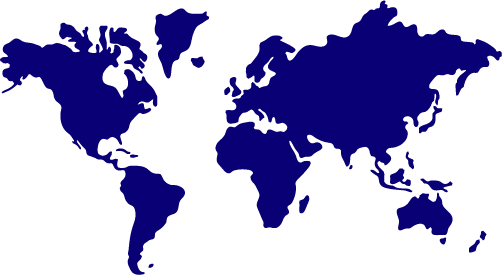
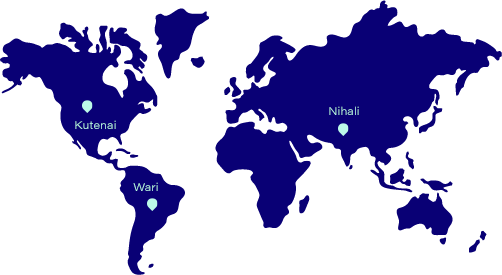
v10 updates

diff --git a/index.html b/index.html
@@ -61,7 +61,7 @@
         
         <div id="nav_bar" class="navbar-fixed-top"><nav>
         <ul>
-            <li><a href="#section1">home</a></li>
+            <li id="homeicon"><a href="#section1"><img class="home" src="img/home.png" href="#section1"/></a></li>
             <li><a href="#section2">about</a></li>
             <li><a href="#section3">features</a></li>
             <li><a href="#section4">users</a></li>
@@ -73,12 +73,12 @@
         
         <div id="mobile_nav_bar"><nav>
         <ul>
-            <li><a href="#section2">about</a></li>
-            <li><a href="#section3">features</a></li>
-            <li><a href="#section4">users</a></li>
-            <li><a href="#section5">download</a></li>
-            <li><a href="#section6">mission</a></li>
-            <li><a href="#section7">team</a></li>
+            <li class="mobile-link"><a href="#section2">about</a></li>
+            <li class="mobile-link"><a href="#section3">features</a></li>
+            <li class="mobile-link"><a href="#section4">users</a></li>
+            <li class="mobile-link"><a href="#section5">download</a></li>
+            <li class="mobile-link"><a href="#section6">mission</a></li>
+            <li class="mobile-link"><a href="#section7">team</a></li>
             </ul></nav>
             </div>
         
@@ -89,11 +89,12 @@
                <img class="logo" src="img/logo-withtagline.png"/>
                 <p>&nbsp;</p>
                 <h3 class="tagline">The future of self-teaching AI meets the history of culture.</h3> 
+            <div><a href="#section1"><img class="back-top" src="img/back-to-top.png"></a></div>
         </div>
         <div><img class="mockup1" src="img/mockup.png" alt=""/></div>
         <div id="content">
         <div id="section2">
-            <div><img class="timeline" src="img/website-timeline.png" alt=""/></div>
+            <div><img class="timeline" src="img/web-timeline.png" alt=""/></div>
             <div id="section2text">
             <h1>about</h1><br>
             <h3 class="about-tagline">Learning, teaching, and preserving,<br>all found in one smart program.</h3>
@@ -108,6 +109,7 @@
         </div>
         <div id="section3">
             <div><img class="mockup2" src="img/mockup-2.png" alt=""/></div>
+            <div><img class="mockup2flip" src="img/mockup-2-flip.png" alth=""/></div>
             <div id="section3text">
             <h1>features</h1><br>
                 <!-- I don't think the features paragraphs as they are normally are too long for the mobile version, I think we can just keep them the same instead of shortening them. If you disagree feel free to edit!! -->
@@ -117,22 +119,31 @@
             <div><img class="mockup1-mobile" src="img/mockup.png" alt=""/></div>
         </div>
         <div id="section4">
-            <div><img class="map1" src="img/map-right.png" alt=""/></div>
+            <div><img class="map1" src="img/map-right.png" alt=""/>
+            <div class="location-hover"><img class="location1" src="img/location.png">
+                <span class="location-h-image"><img class="nihali-hover" src="img/nihali-hover.png"></span>
+            </div>
+            </div>
             <div id="section4textleft">
             <h1>users</h1><br>
+            <img class="gautum" src="img/gautum.png">
             <p id="users1">Gautam is a native speaker of Nihali, along with only 2,000 others in central India. At seventy years old, he’s watched the number of Nihali speakers slowly dwindle over the course of his lifetime and worries that his tribe will soon lose the ability to pass on the legacy of their history through written texts and documentation. While also fluent in Hindi, Gautam knows that teaching a language is outside the scope of his skills and instead searches for someone to help prolong the life of Nihali culture. He finds Numan through his granddaughter, who shows him how to talk into her smartphone in Nihali and help the AI translate the words into Hindi. Every other day for the next year, Gautam spends twenty minutes having a conversation with Numan in Nihali and Hindi, confirming spelling and pronunciation as he goes, until the app notifies him that it has learned enough Nihali to send the language to its database and teach it to others who have the app. Now Gautam knows that his native language is catalogued somewhere and will not die out, even if the remaining native speakers are unable to teach Nihali to new generations.</p>
             <p id="users2">Gautam is a native speaker of Nihali, along with only 2,000 others in central India. At seventy years old, he’s watched the number of Nihali speakers slowly dwindle over the course of his lifetime, but knows that teaching a language is outside the scope of his skills. Every other day for the next year, Gautam spends twenty minutes having a conversation with Numan in Nihali and Hindi, confirming spelling and pronunciation as he goes, until the app notifies him that it has learned enough Nihali to send the language to its database and teach it to others who have the app. Now Gautam knows that his native language is catalogued somewhere and will not die out, even if the remaining native speakers are unable to teach Nihali to new generations.</p>
             </div>
             <div id="section4textright">
             <p>&nbsp;</p>
+            <img class="charlotte" src="img/charlotte.png">
             <p id="users1"> Charlotte is a fifty year old linguistics professor who teaches a class on moribund languages at the University of Oxford. During her career, she has become fascinated with Amazonian dialects and learns of an endangered language called Wari, spoken by around 3,000 people in the Rondonian region of Brazil, that she is interested in learning and sharing with her students. Although most of the Wari people also speak Portuguese, there are very few documents to aid in learning the language and Charlotte thinks she’s reached a dead end. However, one of her students introduces her to Numan, which recently learned the language by conversing with one of the native speakers in Wari and Portuguese to translate it into English. After downloading the app, Charlotte is able to learn and share an example of a moribund Amazonian language with her class.</p>
             <div><img class="maps-mobile" src="img/maps-mobile.png"></div>
             <p id="users2"> Charlotte is a fifty year old linguistics professor who teaches a class on moribund languages at the University of Oxford. She learns of an endangered language called Wari, spoken by around 3,000 people in the Rondonian region of Brazil, that she is interested in learning and sharing with her students. Although most of the Wari people also speak Portuguese, there are very few documents to aid in learning the language and Charlotte thinks she’s reached a dead end. However, Numan recently learned the language by conversing with one of the native speakers, and Charlotte is able to learn Wari and share an example of a moribund Amazonian language with her class.</p>
             <p>&nbsp;</p>
+            <img class="daniel" src="img/daniel.png">
             <p id="users1">Daniel is a thirty year old descendant of the Kutenai people of Montana and British Columbia, and the grandson of one of twelve people who can still speak the native language. His grandmother is an amazing storyteller, but most of her culture’s myths are only understandable in the Kutenai language and are therefore inaccessible to Daniel. For years he’s been trying to convince his grandmother to teach him the language so that he can feel closer to his own family and the history of his ancestors, but although she herself is fluent in both English and Kutenai, she doesn’t know how to teach more than a few vocabulary words. With Numan, Daniel is able to have his grandmother speak into her laptop and have conversations with the self-teaching AI that powers the app. After six months Numan has listened to enough Kutenai and understands the syntax and vocabulary, and is ready to teach Daniel.</p>
             <p id="users2">Daniel is a thirty year old descendant of the Kutenai people of Montana and British Columbia, and the grandson of one of twelve people who can still speak the native language. His grandmother is an amazing storyteller, but most of her culture’s myths are only understandable in the Kutenai language and are therefore inaccessible to Daniel. Although she is fluent in both English and Kutenai, she doesn’t know how to teach more than a few vocabulary words. With Numan, Daniel is able to have his grandmother speak into her laptop and have conversations with the self-teaching AI that powers the app. After six months Numan has listened to enough Kutenai and understands the syntax and vocabulary, and is ready to teach Daniel.</p>
             </div>
-            <div><img class="map2" src="img/map-left.png" alt=""/></div>
+            <div><img class="location2" src="img/location.png">
+            <img class="location3" src="img/location.png">
+            <img class="map2" src="img/map-left.png" alt=""/></div>
         </div>
         <div id="section5">
             <div id="section5text">

diff --git a/style.css b/style.css
@@ -24,6 +24,12 @@ body, div {
     }
 }
 
+.home {
+    display: inline;
+    width: 2.3%; 
+    justify-self: center; 
+}
+
 #nav_bar {
     position: fixed;
     width: 100%;
@@ -40,8 +46,9 @@ body, div {
 #mobile_nav_bar {
     width: 100%;
     position: absolute;
-    top: 250px;
+    top: 20px;
     left: 50px;
+    z-index: 11;
 }
 
 @media screen and (min-width: 501px) {
@@ -66,6 +73,7 @@ nav {
 .navbar-fixed-top.scrolled .nav-link {
   color:#555;
 }
+
 
 /*
 #divToShowHide {
@@ -95,7 +103,8 @@ ul {
     margin: 0;
     padding: 0;
     height: 50px;
-    padding-top: 40px;
+    padding-top: 30px;
+    padding-bottom: 15px;
 }
 
 @media screen and (max-width: 500px) {
@@ -116,14 +125,21 @@ li {
     letter-spacing: 1px;
 }
 
+#homeicon a:hover {
+    text-decoration: none;
+    border: none;
+}
+
+
 @media screen and (max-width: 500px) {
     li {
-        padding-bottom: 25px;
+        padding-bottom: 55px;
+        margin-top: 10px;
     }
 }
 
 @media screen and (max-width: 500px) {
-    li a:hover {
+    .mobile-link a:hover {
         color: navy;
         text-decoration: none;
         border: none;
@@ -144,7 +160,7 @@ li a:hover {
 }
 
 h3 {
-    color: darkblue;
+    color: lightseagreen;
     margin: 0;
     padding: 0;
     font-family: acumin-pro-wide, sans-serif;
@@ -157,8 +173,22 @@ h3 {
 @media screen and (max-width: 500px) {
     .tagline {
         position: absolute;
-        top: 730px;
+        top: 700px;
         width: 60%;
+    }
+}
+
+.back-top {
+    position: fixed;
+    top: 800px;
+    width: 10%;
+    margin-left: 320px;
+    z-index: 12;
+}
+
+@media screen and (min-width: 501px) {
+    .back-top {
+        display: none;
     }
 }
 
@@ -368,6 +398,12 @@ p {
     }
 }
 
+@media screen and (min-width:501px){
+    .mockup2flip {
+        display: none;
+    }
+}
+
 .mockup2 {
     width: 50%;
     position: relative;
@@ -376,14 +412,21 @@ p {
     top: -50px;
 }
 
-@media screen and (max-width:500px) {
+@media screen and (max-width:500px){
     .mockup2 {
-        position: absolute;
-        top: 50px;
-        left: 100px;
-        width: 100%;
+        display: none;
     }
 }
+
+.mockup2flip {
+    position: absolute;
+    width: 200%;
+    top: -75px;
+    left: -20px;
+}
+
+
+
 
 #section4 { 
     width: 100%;
@@ -398,6 +441,57 @@ p {
 @media screen and (max-width:500px) {
     #section4 {
         padding-bottom: 0px;
+    }
+}
+
+.gautum {
+    position: absolute;
+    top: 42%;
+    left: 37%;
+    opacity: 30%;
+    width: 20%;
+}
+
+@media screen and (max-width:500px) {
+    .gautum {
+        position: absolute;
+        top: 4530px;
+        left: 320px;
+        width: 25%;
+    }
+}
+
+.charlotte {
+    position: absolute;
+    top: 49%;
+    left: 45%;
+    opacity: 20%;
+    width: 15%;
+}
+
+@media screen and (max-width:500px) {
+    .charlotte {
+        position: absolute;
+        top: 5470px;
+        left: 320px;
+        width: 25%;
+    }
+}
+
+.daniel {
+    position: absolute;
+    top: 54%;
+    left: 41%;
+    opacity: 20%;
+    width: 20%;
+}
+
+@media screen and (max-width:500px) {
+    .daniel {
+        position: absolute;
+        top: 5950px;
+        left: 320px;
+        width: 25%;
     }
 }
 
@@ -455,6 +549,73 @@ p {
         display: none;
     }
 }
+
+.location1 {
+    width: 3%;
+    position: relative;
+    right: -550px;
+    float: right;
+    margin-top: 290px;
+}
+
+.location-h-image {
+    visibility: hidden;
+    
+}
+
+.location-hover:hover .location-h-image {
+    visibility: visible;
+    height: auto;
+    position: relative;
+    right: -1080px;
+    top: 120px;
+}
+
+.nihali-hover {
+    width: 200px;
+    height: auto;
+}
+
+@media screen and (max-width:500px) {
+    .nihali-hover {
+        display: none;
+    }
+}
+
+@media screen and (max-width:500px) {
+    .location1 {
+        display: none;
+    }
+}
+
+.location2 {
+    width: 3%;
+    position: relative;
+    right: 250px;
+    float: right;
+    margin-top: 790px;
+}
+
+@media screen and (max-width:500px) {
+    .location2 {
+        display: none;
+    }
+}
+
+.location3 {
+    width: 3%;
+    position: relative;
+    right: -550px;
+    float: right;
+    margin-top: 290px;
+}
+
+@media screen and (max-width:500px) {
+    .location3 {
+        display: none;
+    }
+}
+
 
 .map2 {
     width: 60%;
